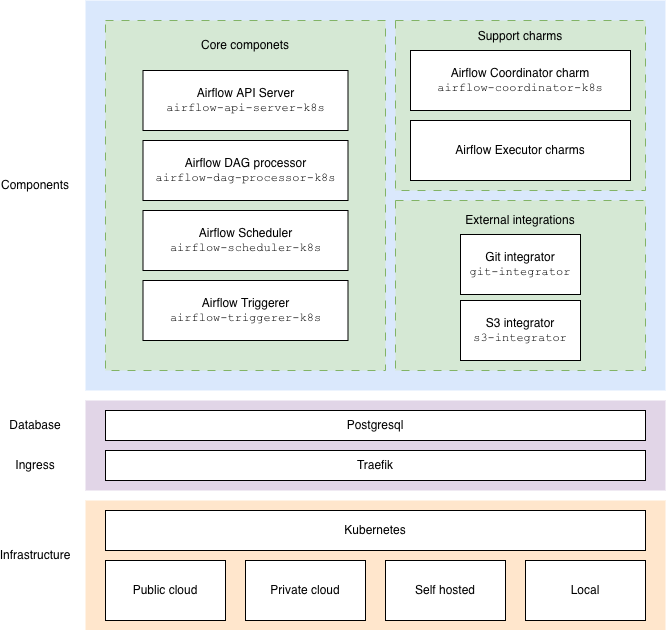
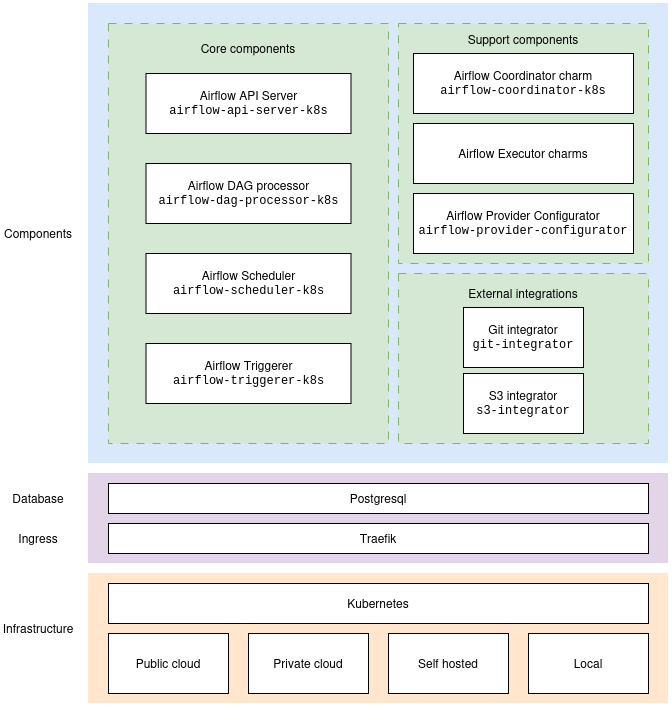
[WF-629] Update documentation for airflow provider configurator charm (#24)
* initial changes for documentation of airflow-provider-configurator charm

* Describe the Airflow Provider Configurator in the architecture overview

* Correct the provider configurator deploy channels, secret URI and dropped setting behaviour

diff --git a/docs/how-to/integrate/provider-configurator.rst b/docs/how-to/integrate/provider-configurator.rst
@@ -1,0 +1,193 @@
+.. _integrate-provider-configurator:
+
+Integrate with the Airflow Provider Configurator
+=================================================
+
+The Airflow Provider Configurator charm (``airflow-provider-configurator``) lets you
+configure Airflow providers — connection parameters, credentials, and feature flags —
+from a Git repository and a Juju secret, instead of editing ``airflow.cfg`` by hand. It
+reads non-sensitive configuration from an ``.ini`` file in a Git repository and
+sensitive values from a Juju user secret, then shares the combined configuration with
+``airflow-coordinator-k8s`` for merging into the deployed Airflow configuration.
+
+Prerequisites
+-------------
+
+* A working Charmed Airflow deployment with ``airflow-coordinator-k8s`` already
+  deployed and active.
+* A Git repository containing an ``.ini`` file with your non-sensitive provider
+  configuration.
+
+----
+
+Deploy the charms
+-----------------
+
+Deploy the Provider Configurator charm:
+
+.. code-block:: bash
+
+   juju deploy airflow-provider-configurator --channel 1.0/edge
+
+.. note::
+
+   Only one ``airflow-provider-configurator`` application is supported per Charmed
+   Airflow deployment.
+
+The charm accepts a single Git integrator application, so unless your provider
+configuration lives in the same repository as your DAGs, deploy a dedicated one and
+configure it with the repository holding the ``.ini`` file. See
+:doc:`Integrate with Git Integrator </how-to/integrate/git-integrator>` for the
+configuration options:
+
+.. code-block:: bash
+
+   juju deploy git-integrator provider-config-git --channel 1.0/edge
+
+----
+
+Prepare your provider configuration
+-----------------------------------
+
+The charm reads provider configuration from two sources:
+
+* **Non-sensitive configuration** lives in an ``.ini`` file in your Git repository. Each
+  section maps to an Airflow configuration section, and each option to a setting within
+  it. For example:
+
+  .. code-block:: ini
+
+     [smtp]
+     smtp_host = smtp.example.com
+     smtp_port = 587
+     smtp_starttls = True
+
+* **Sensitive configuration** (passwords, tokens, keys) is supplied through a Juju user
+  secret, so it never has to be committed to the repository. The secret holds a JSON
+  string under the key ``airflow-provider-configurations``, mapping a provider name to a
+  nested section/option map:
+
+  .. code-block:: json
+
+     {"smtp-provider": {"smtp": {"smtp_password": "my-secret-password"}}}
+
+  The provider-name nesting (``smtp-provider`` above) is for your own authoring
+  convenience; the charm flattens it and keeps the section/option/value structure.
+
+----
+
+Configure the charm
+-------------------
+
+Point the charm at the ``.ini`` file in your Git repository. The path is relative to the
+root of the repository, or to the subdirectory advertised by the Git integrator if one
+is set. This option is **required**:
+
+.. code-block:: bash
+
+   juju config airflow-provider-configurator \
+     airflow_provider_configurations_file_path=<path/to/config.ini>
+
+To supply sensitive values, create a Juju secret, grant it to the charm, and reference
+it:
+
+.. code-block:: bash
+
+   juju add-secret airflow-provider-secret \
+     airflow-provider-configurations='{"smtp-provider": {"smtp": {"smtp_password": "my-secret-password"}}}'
+
+   juju grant-secret airflow-provider-secret airflow-provider-configurator
+
+   juju config airflow-provider-configurator \
+     airflow_provider_configurations_secret=<secret-uri>
+
+.. note::
+
+   Replace ``<secret-uri>`` with the secret URI returned by ``juju add-secret``. It
+   already includes the ``secret:`` prefix, so do not add one. You can find it again
+   with ``juju list-secrets``. The secret key is hyphenated
+   (``airflow-provider-configurations``) because Juju does not allow underscores in
+   secret keys.
+
+Optionally, change how often the charm polls the Git repository for changes (the default
+is ``60s``):
+
+.. code-block:: bash
+
+   juju config airflow-provider-configurator airflow_provider_configurations_sync_period=120s
+
+----
+
+Integrate with the Charmed Airflow components
+---------------------------------------------
+
+1. Integrate with the Git integrator so the charm can fetch your configuration
+   repository:
+
+   .. code-block:: bash
+
+      juju integrate airflow-provider-configurator:remote-airflow-provider-configurations \
+        provider-config-git:git
+
+2. Integrate with the coordinator so the provider configuration is merged into the
+   deployed Airflow configuration:
+
+   .. code-block:: bash
+
+      juju integrate airflow-provider-configurator:airflow-provider-configuration \
+        airflow-coordinator-k8s:airflow-provider-configuration
+
+Wait for all units to return to ``active/idle``:
+
+.. code-block:: bash
+
+   juju status --watch 5s
+
+----
+
+Verify the configuration
+------------------------
+
+The Provider Configurator charm stays ``blocked`` until it can publish a configuration.
+Check its status message with ``juju status`` if it does not reach ``active/idle``. The
+most common causes are a missing ``airflow_provider_configurations_file_path``, no Git
+integrator relation, a file that cannot be found at the configured path, and a Juju
+secret that cannot be read.
+
+Once the charm is ``active``, inspect its logs to confirm what was published:
+
+.. code-block:: bash
+
+   juju debug-log --include airflow-provider-configurator
+
+.. note::
+
+   Some provider configuration is dropped rather than applied, without blocking the
+   deployment: settings in sections that providers are never allowed to set, such as
+   ``core``, ``database``, and ``webserver``, and settings the coordinator already
+   manages itself. The unit that drops a setting names each dropped setting in its
+   status message. For the full list of reserved sections, see
+   the :doc:`charm reference </reference/charms/airflow-provider-configurator>`.
+
+----
+
+Force an immediate sync
+-----------------------
+
+By default the charm republishes provider configuration on the configured poll interval.
+To apply a change immediately — for example after updating the ``.ini`` file in Git — run
+the ``sync-now`` action:
+
+.. code-block:: bash
+
+   juju run airflow-provider-configurator/0 sync-now
+
+----
+
+Remove the integration
+----------------------
+
+.. code-block:: bash
+
+   juju remove-relation airflow-provider-configurator:airflow-provider-configuration \
+     airflow-coordinator-k8s:airflow-provider-configuration

diff --git a/docs/explanation/architecture-overview.rst b/docs/explanation/architecture-overview.rst
@@ -66,10 +66,19 @@ Support charms
 
 * **Airflow Coordinator** (``airflow-coordinator-k8s``) is the central support
   charm. It gathers configuration from every source in the deployment — user
-  configuration, defaults, database credentials, executor settings, and DAG
-  source integrators — merges it into a single consistent Airflow
-  configuration, and shares it with each core charm. As a result, the core
-  charms never need to consume those relations directly.
+  configuration, defaults, database credentials, executor settings, DAG
+  source integrators, and provider configuration — merges it into a single
+  consistent Airflow configuration, and shares it with each core charm. As a
+  result, the core charms never need to consume those relations directly.
+
+* **Airflow Provider Configurator** (``airflow-provider-configurator``) lets
+  operators configure Airflow providers as data rather than through charm
+  configuration options. It reads non-sensitive provider configuration from an
+  ``.ini`` file in a Git repository and sensitive values from a Juju user
+  secret, then passes the combined result to the coordinator for merging. This
+  keeps the coordinator's own configuration surface from having to grow with
+  every provider. See
+  :doc:`Integrate with the Airflow Provider Configurator </how-to/integrate/provider-configurator>`.
 
 * **Airflow Executor charms** configure how Airflow schedules and runs DAG
   tasks. Each executor charm advertises an executor-specific configuration
@@ -83,11 +92,14 @@ External integrators
 ~~~~~~~~~~~~~~~~~~~~
 
 External integrators are optional charms that let Charmed Airflow fetch DAGs
-from sources outside the Kubernetes cluster. They allow operators to manage
-DAG distribution without baking DAGs into container images.
+and provider configuration from sources outside the Kubernetes cluster. They
+allow operators to manage DAG distribution and provider configuration without
+baking either into container images.
 
 * **Git integrator** (``git-integrator``) – provides the connection details
-  and credentials for a remote Git repository containing DAGs.
+  and credentials for a remote Git repository containing DAGs or provider
+  configuration. A deployment can run one integrator per repository, so DAGs
+  and provider configuration can live in separate repositories.
 * **S3 integrator** (``s3-integrator``) – provides the connection details and
   credentials for an S3-compatible object storage bucket containing DAGs.
 * **Ory Hydra** (``hydra``) – Provides the OAuth configurations required to enable
@@ -127,8 +139,13 @@ The following integrations enable optional capabilities.
 * ``airflow-kubernetes-executor-config`` – used by the coordinator to collect
   the configuration required by the Kubernetes executor, including the Pod
   template applied when tasks are scheduled as Kubernetes Pods.
+* ``airflow-provider-configuration`` – used by the coordinator to collect
+  provider configuration from the Provider Configurator, which it merges into
+  the shared Airflow configuration.
 * ``git`` – used by the coordinator to collect the connection information
-  required to fetch DAGs from a Git repository, through the Git integrator.
+  required to fetch DAGs from a Git repository, and by the Provider
+  Configurator to fetch its provider configuration file, through the Git
+  integrator.
 * ``ingress`` – used by the API server to obtain a proxied, externally
   reachable endpoint from ``traefik-k8s``.
 * ``s3`` – used by the coordinator to collect the connection information

diff --git a/docs/reference/charms/airflow-provider-configurator.rst b/docs/reference/charms/airflow-provider-configurator.rst
@@ -1,0 +1,44 @@
+Charmed Airflow Provider Configurator
+=====================================
+
+``airflow-provider-configurator`` is a `Kubernetes charm`_ that lets Charmed Airflow
+operators configure Airflow providers — connection parameters, credentials, and feature
+flags — without manually editing ``airflow.cfg``.
+
+The charm reads non-sensitive provider configuration from an ``.ini`` file in a Git
+repository (kept in sync through a ``git-sync`` sidecar) and sensitive values from a
+`Juju user secret`_, so credentials never have to live in the repository. It combines
+the two sources and shares the result with ``airflow-coordinator-k8s`` over the
+``airflow-provider-configuration`` relation, where it is merged into the configuration
+distributed to the rest of the deployment.
+
+Core responsibilities
+---------------------
+
+* Continuously syncing non-sensitive provider configuration from a Git repository, on a
+  configurable poll interval, via a ``git-sync`` sidecar container.
+* Reading sensitive provider configuration (such as passwords and tokens) from a Juju
+  user secret, keeping it out of the Git repository.
+* Combining the two sources and sharing the resulting provider configuration with
+  ``airflow-coordinator-k8s`` for merging into ``airflow.cfg``.
+* Dropping any provider configuration that belongs to a reserved section, that is, one
+  that providers are never allowed to set: ``api``, ``api_auth``, ``core``,
+  ``dag_processor``, ``database``, ``default``, ``fab.auth_backends``,
+  ``kubernetes_executor``, and ``webserver``. This check is applied to both the ``.ini``
+  file and the Juju user secret. Dropped settings are reported in the unit status
+  message and logged, and do not block the unit. The coordinator applies a further check
+  of its own, dropping provider configuration that collides with the configuration it
+  already manages.
+
+Only one ``airflow-provider-configurator`` application is supported per Charmed Airflow
+deployment, and it accepts a single Git integrator application.
+
+Project and community
+---------------------
+
+Charmed Airflow is a member of the Ubuntu family. It is an open source project that warmly
+welcomes community contributions, suggestions, fixes, and constructive feedback.
+
+* `Code of conduct`_
+* `Join the Discourse community forum`_
+* `Contribute on GitHub`_

diff --git a/docs/reference/charms/index.rst b/docs/reference/charms/index.rst
@@ -11,3 +11,4 @@ Charms
    airflow-triggerer
    airflow-coordinator
    airflow-kubernetes-executor
+   airflow-provider-configurator

diff --git a/docs/how-to/integrate/index.rst b/docs/how-to/integrate/index.rst
@@ -10,3 +10,4 @@ Integrate
    hydra
    s3-integrator
    kubernetes-executor
+   provider-configurator
